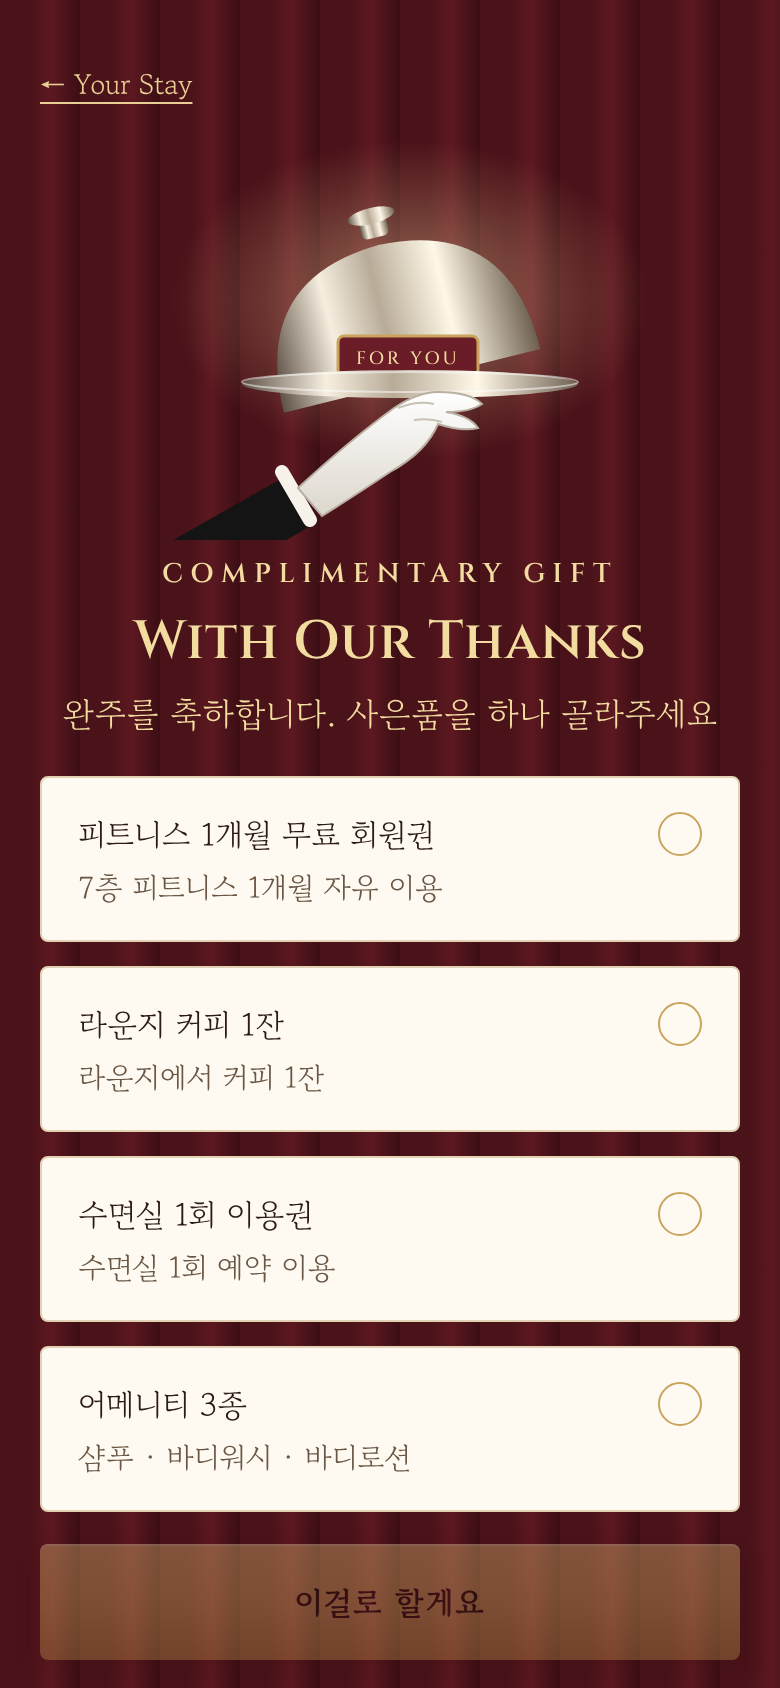
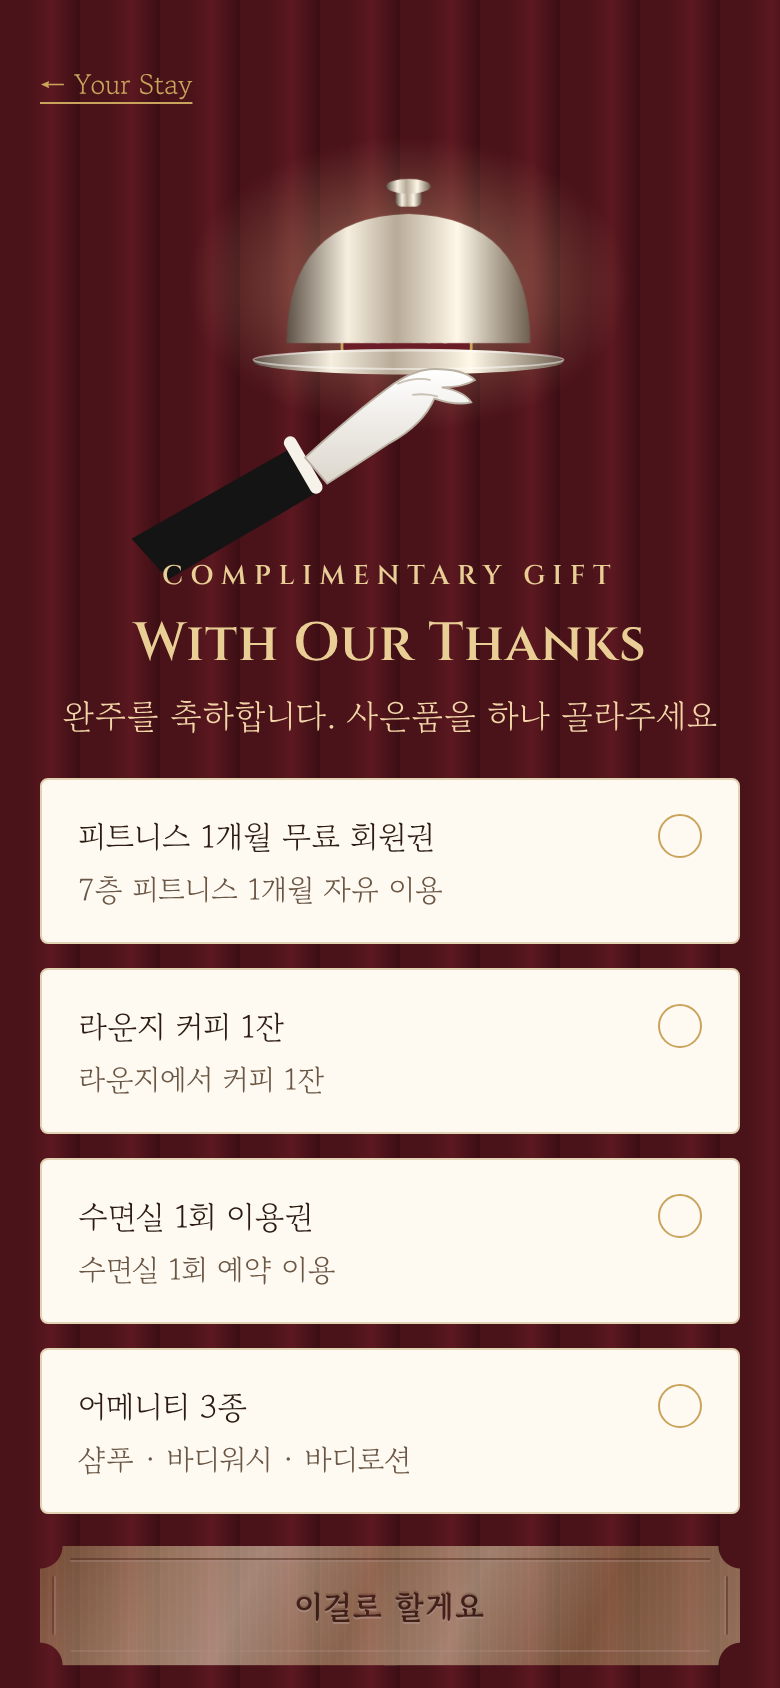
Add luggage-cart progress and cloche gift screen; smaller, lower sleeve key
- Your Stay bar is a red carpet; a luggage cart rolls toward the room each listen
- Gift screen on velvet with a gloved hand holding a FOR YOU cloche; lid lifts on confirm
- Key on the card sleeve shrunk so it sits clear of the notch

Claude-Session: https://claude.ai/code/session_011z6wvs2Gb5um8vyCmLK585

diff --git a/index.html b/index.html
@@ -241,7 +241,7 @@ input:focus,select:focus{outline:none;border-bottom:2px solid var(--burgundy)}
   box-shadow:0 14px 34px rgba(0,0,0,.55),inset 0 0 0 1px rgba(201,164,92,.35);
   -webkit-mask:radial-gradient(circle 34px at 50% 0,transparent 33px,#000 34px);mask:radial-gradient(circle 34px at 50% 0,transparent 33px,#000 34px);
   display:flex;flex-direction:column;align-items:center;justify-content:flex-end;padding:0 0 22px}
-.sleeve svg{width:46px;height:102px;margin-bottom:10px;overflow:visible;filter:drop-shadow(0 3px 4px rgba(0,0,0,.45)) drop-shadow(0 0 10px rgba(255,210,140,.25))}
+.sleeve svg{width:38px;height:84px;margin-bottom:14px;overflow:visible;filter:drop-shadow(0 3px 4px rgba(0,0,0,.45)) drop-shadow(0 0 10px rgba(255,210,140,.25))}
 .sleeve .brand{font-family:var(--en);letter-spacing:.34em;font-size:14px;font-weight:600}
 .sleeve .tagline{font-family:var(--en);letter-spacing:.24em;font-size:9px;opacity:.9;margin-top:4px}
 
@@ -250,7 +250,17 @@ input:focus,select:focus{outline:none;border-bottom:2px solid var(--burgundy)}
    --------------------------------------------------------- */
 .room-plate{font-family:var(--en);font-weight:600;letter-spacing:.2em;font-size:13px;padding:7px 12px;border-radius:2px;color:var(--walnut-900);background:linear-gradient(180deg,#e7cd92,#b8924a);white-space:nowrap}
 .progress{height:6px;border-radius:99px;background:#eadfca;overflow:hidden}
-.progress i{display:block;height:100%;background:linear-gradient(90deg,var(--brass-dark),var(--brass));border-radius:99px;transition:width .5s}
+/* 레드 카펫 진행 막대 + 러기지 카트: 들을 때마다 카트가 객실 쪽으로 이동 */
+.carpet{position:relative;height:84px;margin:4px 0 0}
+.carpet .track,.carpet i{position:absolute;left:0;bottom:6px;height:14px;border-radius:2px;background:repeating-linear-gradient(90deg,#7a1e28 0 10px,#6a1a24 10px 20px);box-shadow:inset 0 0 0 1.5px #c9a45c}
+.carpet .track{right:44px;opacity:.22}
+.carpet i{display:block;width:0;max-width:calc(100% - 44px);transition:width 1s ease}
+.carpet .cart{position:absolute;bottom:12px;left:0;width:52px;height:60px;margin-left:-26px;transition:left 1s ease}
+.carpet .cart svg{width:100%;height:100%;overflow:visible}
+.carpet.moving .cart svg{animation:cartBob .5s ease-in-out 2}
+@keyframes cartBob{50%{transform:translateY(-2px)}}
+.carpet .dest{position:absolute;right:0;bottom:4px;width:40px;font-family:var(--en);font-size:10px;letter-spacing:.12em;color:var(--brass-dark);text-align:center;line-height:1.25}
+.carpet .dest b{display:block;font-size:14px}
 .today-line{font-size:14.5px;color:var(--burgundy);font-weight:500}
 .svc-card{display:grid;grid-template-columns:64px 1fr auto;gap:14px;align-items:center}
 .svc-card h3{font-family:var(--en);font-size:20px}
@@ -309,6 +319,16 @@ body.velvet{background:repeating-linear-gradient(90deg,#4a1219 0 14px,#5c1820 26
 .merci .gname{font-family:var(--serif);font-size:20px;font-weight:500;margin-top:14px}
 .merci .code{font-family:var(--en);font-size:26px;letter-spacing:.12em;font-weight:600;color:var(--brass-dark);margin:12px 0 4px}
 .merci .who{font-size:14px;color:var(--muted)}
+.cloche{display:flex;justify-content:center;margin:-8px 0 8px}
+.cloche svg{width:240px;height:185px;overflow:visible}
+.cloche .lid{transform-origin:206px 112px;animation:lidPeek 4s ease-in-out infinite}
+@keyframes lidPeek{0%,60%,100%{transform:none}75%{transform:rotate(-8deg) translateY(-4px)}}
+.cloche.open .lid{animation:lidOpen .9s cubic-bezier(.3,0,.2,1) forwards}
+@keyframes lidOpen{to{transform:rotate(-38deg) translate(-10px,-40px);opacity:.0}}
+#s-gift .head .en,#s-gift .head .eyebrow{color:var(--brass-light)}
+#s-gift .head .ko-title{color:var(--lamp)!important}
+#s-gift .gift b{color:var(--ink)}
+#s-gift .gift .muted{color:var(--muted)!important;font-weight:400}
 .velvet .note{color:var(--lamp);font-size:16px;font-weight:500}
 
 /* ---------------------------------------------------------
@@ -545,8 +565,14 @@ body.velvet{background:repeating-linear-gradient(90deg,#4a1219 0 14px,#5c1820 26
 
     <div class="card framed stack">
       <div class="row" style="justify-content:space-between"><span class="tag">Your Stay</span><span class="en" style="font-size:16px" id="meCount"></span></div>
-      <div class="progress"><i id="meBar"></i></div>
-      <p class="small muted" id="meGoalText"></p>
+      <div class="carpet" id="carpet"><div class="track"></div><i id="meBar"></i><div class="cart" id="meCart"><svg viewBox="0 0 70 80" aria-hidden="true"><defs><linearGradient id="cartb" x1="0" x2="1"><stop offset="0" stop-color="#8a6a32"/><stop offset=".5" stop-color="#f0d89c"/><stop offset="1" stop-color="#8a6a32"/></linearGradient></defs>
+          <circle cx="35" cy="6" r="4" fill="url(#cartb)"/><path d="M35 10v8M27 18h16" stroke="url(#cartb)" stroke-width="2.5" stroke-linecap="round"/>
+          <path d="M10 64V30Q10 12 35 12Q60 12 60 30V64" fill="none" stroke="url(#cartb)" stroke-width="4"/>
+          <path d="M16 64V32Q16 18 35 18Q54 18 54 32V64" fill="none" stroke="url(#cartb)" stroke-width="2.5" opacity=".8"/>
+          <rect x="22" y="40" width="20" height="16" rx="2" fill="#6a1d27" stroke="#c9a45c"/><rect x="30" y="48" width="18" height="12" rx="2" fill="#3e2414" stroke="#c9a45c"/>
+          <rect x="4" y="62" width="62" height="7" rx="2" fill="#7a1e28" stroke="#2a170c" stroke-width="1.5"/>
+          <circle class="wh" cx="14" cy="73" r="5.5" fill="#1a1a1a" stroke="#c9a45c" stroke-width="2"/><circle class="wh" cx="56" cy="73" r="5.5" fill="#1a1a1a" stroke="#c9a45c" stroke-width="2"/></svg></div><div class="dest">ROOM<b id="meDest"></b></div></div>
+      <p class="small muted nl" id="meGoalText"></p>
       <p class="today-line" id="meToday"></p>
       <button class="btn wine" id="meGift" hidden></button>
     </div>
@@ -589,6 +615,21 @@ body.velvet{background:repeating-linear-gradient(90deg,#4a1219 0 14px,#5c1820 26
 <section class="screen" id="s-gift">
   <div class="stack" style="gap:16px">
     <button class="link" data-go="me" style="align-self:flex-start">← Your Stay</button>
+    <div class="cloche" id="cloche"><svg viewBox="0 0 260 200" aria-hidden="true"><defs>
+        <linearGradient id="dm" x1="0" x2="1"><stop offset="0" stop-color="#5e5246"/><stop offset=".25" stop-color="#f6efe0"/><stop offset=".45" stop-color="#b8ab98"/><stop offset=".7" stop-color="#fff8e8"/><stop offset="1" stop-color="#6e6050"/></linearGradient>
+        <linearGradient id="gl" x1="0" y1="0" x2="0" y2="1"><stop offset="0" stop-color="#ffffff"/><stop offset="1" stop-color="#dcd6cc"/></linearGradient>
+        <radialGradient id="sp"><stop offset="0" stop-color="#ffd9a0" stop-opacity=".45"/><stop offset="1" stop-color="#ffd9a0" stop-opacity="0"/></radialGradient></defs>
+        <ellipse cx="140" cy="80" rx="120" ry="80" fill="url(#sp)"/>
+        <rect x="104" y="98" width="70" height="20" rx="3" fill="#6a1d27" stroke="#c9a45c" stroke-width="1.5"/>
+        <text x="139" y="112" text-anchor="middle" font-family="Cinzel,serif" font-size="9" letter-spacing="1.5" fill="#f3dca0">FOR YOU</text>
+        <g class="lid"><path d="M74 112Q74 44 140 42Q206 44 206 112Z" fill="url(#dm)"/>
+          <rect x="133" y="28" width="14" height="10" rx="3" fill="url(#dm)"/><ellipse cx="140" cy="27" rx="12" ry="4" fill="url(#dm)"/></g>
+        <ellipse cx="140" cy="122" rx="84" ry="7" fill="url(#dm)"/><ellipse cx="140" cy="121" rx="84" ry="5" fill="none" stroke="#fff" stroke-opacity=".5"/>
+        <g transform="translate(140 128)">
+          <path d="M-150 90L-62 40L-48 64L-130 112Z" fill="#141414"/>
+          <path d="M-64 38L-50 62" stroke="#f6f2ea" stroke-width="7" stroke-linecap="round"/>
+          <path d="M-56 46Q-30 22-8 6Q4-2 14-2Q30-2 36 4Q30 8 18 8Q30 10 34 16Q26 18 14 14Q8 28-10 38Q-28 50-44 60Z" fill="url(#gl)" stroke="#b9b0a2" stroke-width="1"/>
+          <path d="M-6 6q10-4 18-2M2 12q8-1 14 1" stroke="#c9c1b4" stroke-width="1" fill="none"/></g></svg></div>
     <div class="head center"><p class="eyebrow">Complimentary Gift</p><h2 class="en" style="margin-top:6px">With Our Thanks</h2><p class="ko-title muted">완주를 축하합니다. 사은품을 하나 골라주세요</p></div>
     <div class="stack" id="giftList"></div>
     <button class="btn" id="giftConfirm" disabled>이걸로 할게요</button>
@@ -1033,7 +1074,7 @@ const stretchSlots = dayList.filter(d => CONFIG.stretch.weekdays.includes(d.getD
 function show(name) {
   document.querySelectorAll('.screen').forEach(s => s.classList.toggle('on', s.id === 's-' + name));
   window.scrollTo(0, 0);
-  document.body.className = name === 'welcome' ? 'dark lobby' : name === 'home' ? 'dark' : name === 'ticket' ? 'dark velvet' : '';
+  document.body.className = name === 'welcome' ? 'dark lobby' : name === 'home' ? 'dark' : name === 'ticket' || name === 'gift' ? 'dark velvet' : '';
   if (name === 'me') renderMe();
   if (name === 'gift') renderGifts();
   if (name === 'signup') requestAnimationFrame(initWheel);   // 화면이 보인 뒤에 휠 위치를 맞춤
@@ -1307,9 +1348,13 @@ async function renderMe() {
   $('meRoom').textContent = `ROOM ${user.room}`;
   $('meCheckin').textContent = checkinNo(user.phone);
   const n = doneCount(), pct = Math.min(100, n / CONFIG.goal * 100);
-  $('meBar').style.width = pct + '%';
+  // 카트는 카펫(오른쪽 객실 표시 앞까지) 위에서 진행률만큼 이동
+  $('meBar').style.width = `calc((100% - 44px) * ${pct / 100})`;
+  $('meCart').style.left = `clamp(26px, calc((100% - 44px) * ${pct / 100}), calc(100% - 72px))`;
+  $('meDest').textContent = user.room;
+  $('carpet').classList.remove('moving'); void $('carpet').offsetWidth; $('carpet').classList.add('moving');
   $('meCount').textContent = `${Math.min(n, CONFIG.goal)} / ${CONFIG.goal}`;
-  $('meGoalText').textContent = n >= CONFIG.goal ? '완주했어요! 감사 사은품을 골라주세요.' : `모닝콜과 턴다운을 합쳐 ${CONFIG.goal - n}번 더 들으면 완주입니다.`;
+  $('meGoalText').textContent = n >= CONFIG.goal ? '객실에 도착했어요! 감사 사은품을 골라주세요.' : `짐을 싣고 객실로 가는 중이에요.\n${CONFIG.goal - n}번 더 들으면 도착(완주)입니다.`;
   $('meGift').hidden = n < CONFIG.goal;
   $('meGift').textContent = state.data.gift ? 'Merci 카드(교환증) 보기' : '감사 사은품 고르기';
 
@@ -1365,7 +1410,10 @@ $('giftConfirm').onclick = async () => {
   if (!state.giftPick || doneCount() < CONFIG.goal) return;
   const g = CONFIG.gifts.find(x => x.id === state.giftPick);
   if (!confirm(`'${g.name}'(으)로 할까요? 선택 후에는 바꿀 수 없어요.`)) return;
-  await Store.chooseGift(state.code, state.giftPick); await refresh(); showTicket();
+  await Store.chooseGift(state.code, state.giftPick); await refresh();
+  // 클로슈 뚜껑이 열리고 Merci 카드로
+  $('cloche').classList.add('open'); window.scrollTo({ top: 0, behavior: 'smooth' });
+  setTimeout(() => { $('cloche').classList.remove('open'); showTicket(); }, 1000);
 };
 function showTicket() {
   const g = CONFIG.gifts.find(x => x.id === state.data.gift.gift);
